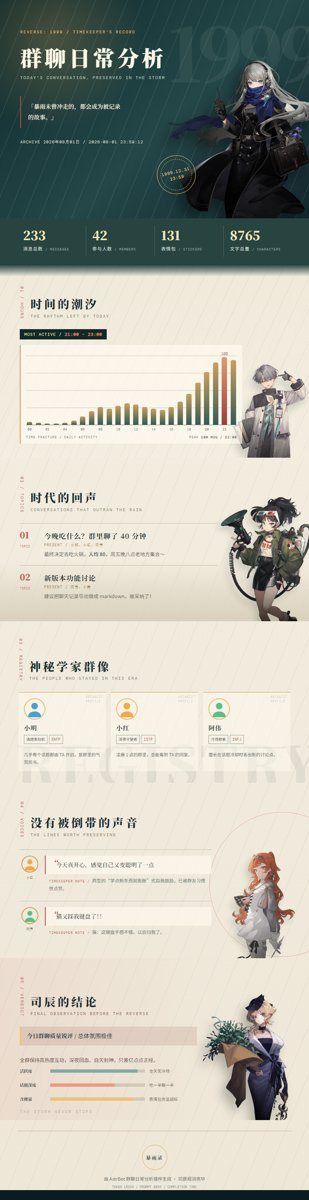
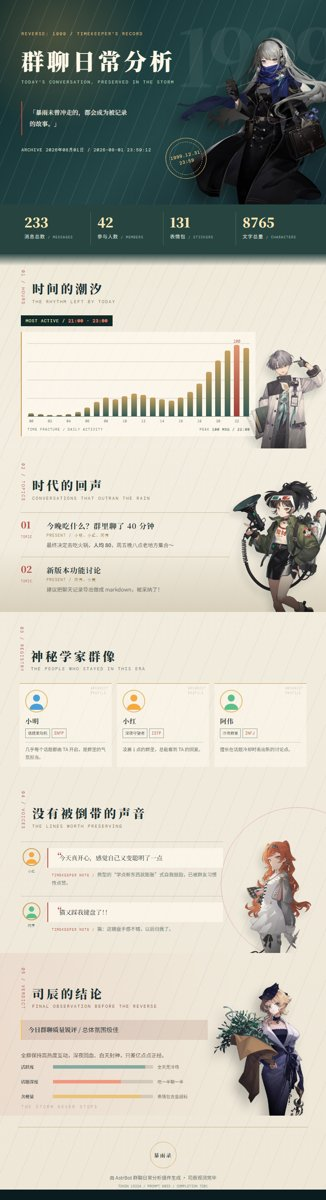
Compact continuous report sections

diff --git a/gda_reverse_1999/image_template.html b/gda_reverse_1999/image_template.html
@@ -1,4 +1,4 @@
 <!DOCTYPE html>
 <html lang="{{ 'zh-CN' if t2i_font_source == 'Mainland' else 'zh-Hant' }}"><head><meta charset="UTF-8"><meta name="viewport" content="width=device-width,initial-scale=1"><title>重返未来：1999 · 群聊观测</title><link rel="preconnect" href="{{ t2i_google_fonts_mirror }}"><link href="{{ t2i_google_fonts_mirror }}/css2?family=Noto+Serif+SC:wght@500;700;900&family=Noto+Serif+TC:wght@500;700;900&family=Noto+Sans+SC:wght@400;500;700&family=Noto+Sans+TC:wght@400;500;700&family=DM+Mono&display=swap" rel="stylesheet"><style>
-:root{--night:#102928;--deep:#0b1c20;--mist:#dce2d7;--paper:#f4efe2;--ivory:#fffaf0;--gold:#c99c55;--red:#bd4d45;--blue:#8ca9a3;--ink:#183031;--font-title:{% if t2i_font_source == 'Mainland' %}'Noto Serif SC','Noto Serif TC'{% else %}'Noto Serif TC','Noto Serif SC'{% endif %},serif;--font-body:{% if t2i_font_source == 'Mainland' %}'Noto Sans SC','Noto Sans TC'{% else %}'Noto Sans TC','Noto Sans SC'{% endif %},sans-serif;--mono:'DM Mono',monospace}*{box-sizing:border-box;margin:0;padding:0}html{background:var(--deep)}body{font-family:var(--font-body);color:var(--ink);font-size:15px;line-height:1.8;-webkit-print-color-adjust:exact;print-color-adjust:exact}.page{width:750px;margin:auto;overflow:hidden;background:#f4efe2;background-image:repeating-linear-gradient(112deg,transparent 0 42px,rgba(35,62,58,.055) 43px 44px),linear-gradient(180deg,#f5f0e4,#eee7d8)}.avoid-break{break-inside:avoid;page-break-inside:avoid}.hero{height:530px;position:relative;overflow:hidden;color:#fff8e8;background:linear-gradient(135deg,#102a2b 0%,#244748 55%,#13272d 100%)}.hero:before{content:"";position:absolute;inset:0;background:repeating-linear-gradient(112deg,transparent 0 34px,rgba(218,236,223,.11) 35px 36px),radial-gradient(circle at 17% 18%,rgba(201,156,85,.28),transparent 29%)}.hero:after{content:"1999";position:absolute;right:-24px;top:32px;font:900 180px/1 var(--font-title);letter-spacing:-12px;color:rgba(255,249,230,.06)}.hero-copy{position:absolute;z-index:3;left:49px;top:70px;width:398px}.eyebrow,.en,.chapter-index,.footer-code{font:10px/1.5 var(--mono);letter-spacing:2px}.eyebrow{color:#e2bf82}.hero h1{margin-top:21px;font:900 52px/1.25 var(--font-title);letter-spacing:7px}.hero .en{margin-top:10px;color:#bbcfbf}.hero-quote{margin-top:37px;width:255px;padding:13px 0 13px 17px;border-left:2px solid var(--red);font-family:var(--font-title);font-size:14px;line-height:1.85}.hero-date{margin-top:27px;color:#d6dccc;font:10px var(--mono);letter-spacing:1px}.hero-char{position:absolute;z-index:2;right:-34px;bottom:-26px;width:380px;filter:drop-shadow(-16px 17px 14px rgba(0,0,0,.37))}.hero-seal{position:absolute;z-index:4;right:275px;bottom:59px;width:94px;height:94px;border:1px solid #dfbd78;border-radius:50%;display:flex;align-items:center;justify-content:center;text-align:center;color:#efc980;font:10px/1.55 var(--mono);letter-spacing:1px;transform:rotate(-13deg)}.hero-seal:after{content:"";position:absolute;inset:8px;border:1px dashed #dfbd78;border-radius:50%}.metrics{display:grid;grid-template-columns:repeat(4,1fr);background:rgba(26,57,54,.94);color:#fff8e8;padding:17px 41px 20px;gap:0;position:relative}.metrics:after{content:"";position:absolute;left:0;right:0;bottom:-28px;height:29px;background:linear-gradient(180deg,rgba(26,57,54,.94),transparent);pointer-events:none;z-index:1}.metric{padding:5px 15px 8px;border-left:1px solid rgba(224,200,145,.27)}.metric:first-child{border:0}.metric b{display:block;font:900 30px/1.2 var(--font-title);color:#f8e5b5}.metric small{font-size:11px;color:#d3dfd2;letter-spacing:1px}.metric span{font:8px var(--mono);color:#9eb4aa;letter-spacing:1px}.scene{position:relative;overflow:hidden}.scene-title{display:flex;align-items:flex-end;gap:16px;position:relative;z-index:3}.chapter-index{color:var(--red);writing-mode:vertical-rl;line-height:1}.scene-title h2{font:900 28px/1.2 var(--font-title);letter-spacing:5px}.scene-title .en{margin-top:5px;color:#8b7761}.tide{padding:52px 48px 34px;background:linear-gradient(180deg,rgba(238,232,216,.78),rgba(244,239,226,.34))}.tide .chart-wrap{margin-bottom:0}.tide:before{content:"";position:absolute;inset:0;background:repeating-linear-gradient(115deg,transparent 0 31px,rgba(40,74,70,.06) 32px 33px)}.tide-char{position:absolute;right:-25px;bottom:-46px;width:250px;opacity:.88;filter:drop-shadow(-8px 13px 9px rgba(25,43,40,.2))}.tide .scene-title{width:420px}.peak-box{position:relative;z-index:3;display:inline-block;margin:24px 0 13px;padding:6px 11px;background:var(--night);color:#f2e0b7;font:10px var(--mono);letter-spacing:1px}.peak-box b{color:#f18770}.chart-wrap{position:relative;z-index:3;width:540px;padding:14px 13px 11px;background:rgba(255,250,239,.7);border-left:2px solid var(--gold)}.chart-col{padding-top:20px;background:repeating-linear-gradient(0deg,transparent 0 40px,rgba(31,55,51,.15) 41px 42px)}.chart-bars{height:160px;display:flex;gap:4px;align-items:flex-end}.chart-item{height:100%;flex:1;display:flex;align-items:flex-end;justify-content:center;position:relative}.chart-bar{width:75%;min-height:3px;background:linear-gradient(to top,#335b57,#c7a15e);border-radius:4px 4px 0 0}.chart-bar.peak{background:linear-gradient(to top,#9e3e39,#e19a73)}.chart-val{position:absolute;bottom:calc(100% + 6px);font:9px var(--mono);color:var(--red)}.chart-hr{border:0;border-top:1px solid #778780}.chart-labels{display:flex;gap:4px;padding-top:5px}.chart-labels span{flex:1;text-align:center;font:8px var(--mono);color:#708079}.chart-caption{display:flex;justify-content:space-between;margin-top:9px;font:8px var(--mono);letter-spacing:1px;color:#697870}.topic-scene{padding:46px 48px 34px;background:transparent}.topic-scene .topic-list{margin-bottom:0}.topic-char{right:2px;bottom:18px;width:252px;opacity:.94}.topic-scene:before{content:"";position:absolute;left:0;right:0;bottom:0;height:145px;background:linear-gradient(0deg,#d8d0bc,transparent)}.topic-scene .scene-title{margin-bottom:25px}.topic-list{position:relative;z-index:2;width:480px}.topic-item{display:flex;gap:17px;padding:17px 0;border-top:1px solid #c9b99c}.topic-no{width:42px;flex:none;color:var(--red)}.topic-no b{display:block;font:900 21px/1 var(--font-title)}.topic-no span{font:7px var(--mono);letter-spacing:1px}.topic-title{font:700 17px/1.5 var(--font-title);letter-spacing:1px}.topic-meta{margin-top:3px;color:#a47d42;font:9px var(--mono);letter-spacing:1px}.topic-detail{margin-top:5px;color:#5f6861;font-size:12px}.topic-char{position:absolute;right:-58px;bottom:-33px;width:300px;z-index:1;filter:drop-shadow(-9px 11px 8px rgba(25,43,40,.17))}.registry{padding:42px 45px 28px;background:transparent;color:var(--ink)}.registry:before{content:"REGISTRY";position:absolute;left:37px;bottom:-44px;color:rgba(21,57,53,.025);font:900 130px var(--font-title);letter-spacing:6px}.registry .en{color:#bfae87}.title-grid{display:grid;grid-template-columns:repeat(3,1fr);gap:12px;position:relative;z-index:2;margin-top:26px}.title-card{position:relative;padding:14px 13px 13px;background:rgba(255,250,240,.48);border-top:1px solid #d4b272;overflow:hidden}.title-card:after{content:"ARCANIST\A PROFILE";white-space:pre;position:absolute;right:7px;top:6px;color:rgba(255,248,230,.35);font:7px/1.5 var(--mono);letter-spacing:1px}.t-avatar{width:52px;height:52px;border-radius:50%;overflow:hidden;border:2px solid #e2bd75}.t-avatar img{width:100%;height:100%;object-fit:cover}.t-name{margin-top:9px;font:700 15px var(--font-title);letter-spacing:1px}.t-badges{display:flex;gap:4px;flex-wrap:wrap;margin-top:7px}.t-title-tag,.t-mbti{padding:2px 5px;border:1px solid rgba(239,218,175,.54);font-size:9px}.t-mbti{font-family:var(--mono);color:#f3bdad}.t-reason{margin-top:9px;padding-top:7px;border-top:1px solid rgba(239,218,175,.23);font-size:10.5px;line-height:1.7;color:#d7ded0}.t-profile{position:absolute;right:-6px;bottom:-4px;width:58%;opacity:.08}.quote-stage{padding:46px 48px 34px;background:transparent}.quote-stage .quote-wrapper:last-child{margin-bottom:0}.quote-char{right:8px;bottom:18px;width:245px;opacity:.84}.quote-stage:after{content:"";position:absolute;right:-110px;top:71px;width:350px;height:350px;border:1px solid rgba(190,73,66,.35);border-radius:50%}.quote-stage .scene-title{margin-bottom:28px}.quote-wrapper{position:relative;z-index:2;width:465px;padding:14px 0;border-top:1px solid #bec6b9}.q-flex{display:flex;gap:13px}.q-side{flex:none;width:48px;text-align:center}.q-avatar{width:41px;height:41px;object-fit:cover;border-radius:50%;border:2px solid var(--gold)}.q-sender{font:8px var(--mono);color:#61716a;word-break:break-all}.q-main{flex:1}.q-bubble{padding:10px 13px 10px 25px;background:rgba(255,251,240,.65);border-left:2px solid var(--red);font:14px/1.75 var(--font-title);position:relative}.q-bubble:before{content:'“';position:absolute;left:9px;top:3px;font:23px var(--font-title);color:var(--red)}.q-note{padding:6px 10px;color:#68766f;font-size:11px}.note-label{font:8px var(--mono);color:var(--red);letter-spacing:1px}.quote-char{position:absolute;right:-20px;bottom:-47px;width:285px;z-index:1;filter:drop-shadow(-9px 13px 8px rgba(30,50,47,.19))}.assessment{padding:46px 48px 34px;background:linear-gradient(90deg,rgba(189,77,69,.08),transparent 72%);color:var(--ink)}.assessment:before{content:"THE STORM NEVER STOPS";position:absolute;left:49px;bottom:14px;font:9px var(--mono);letter-spacing:3px;color:rgba(255,239,207,.43)}.assessment .en{color:#ebc98b}.block-char{position:absolute;right:-17px;bottom:-27px;width:294px;filter:drop-shadow(-13px 15px 12px rgba(0,0,0,.25))}.quality-summary{position:relative;z-index:2;width:430px;margin-top:24px;font-size:12px;color:#ffeeda}.quality-summary.head{padding:10px 14px;border-left:3px solid #f2c470;background:rgba(30,20,22,.2);font-size:14px}.quality-summary b{font-family:var(--font-title)}.dim-row{position:relative;z-index:2;display:flex;align-items:center;gap:10px;width:418px;padding:8px 0;font-size:10px}.dim-name{width:64px;font-family:var(--font-title);font-weight:700}.dim-bar-box{flex:1;height:8px;background:rgba(255,245,220,.25)}.dim-bar{height:100%;background:#e9c378}.dim-bar.d2{background:#83aaa0}.dim-bar.d3{background:#f0987f}.dim-comment{width:104px;color:#f4d9c5}.footer{position:relative;height:170px;padding-top:60px;text-align:center;background:transparent;color:var(--ink)}.footer:before{content:"";position:absolute;left:42px;right:42px;top:26px;border-top:1px solid rgba(225,190,123,.39)}.seal{display:inline-flex;width:61px;height:61px;align-items:center;justify-content:center;border:1px solid #d4ab67;border-radius:50%;font:700 12px/1.35 var(--font-title);letter-spacing:2px;position:relative;z-index:1}.seal span{display:none}.footer-line{margin-top:12px;font-size:11px;color:#c3d1c2}.token-line{margin-top:4px;font:8px var(--mono);color:#89a39a}.footer-art,.footer-art2,.footer-orn,.deco-char,.blk-sticker,.sec-head,.sec-no,.sec-title,.sec-sub,.kpi-row,.kpi-card,.kpi-num,.kpi-unit,.kpi-label,.kpi-en{display:none}
+:root{--night:#102928;--deep:#0b1c20;--mist:#dce2d7;--paper:#f4efe2;--ivory:#fffaf0;--gold:#c99c55;--red:#bd4d45;--blue:#8ca9a3;--ink:#183031;--font-title:{% if t2i_font_source == 'Mainland' %}'Noto Serif SC','Noto Serif TC'{% else %}'Noto Serif TC','Noto Serif SC'{% endif %},serif;--font-body:{% if t2i_font_source == 'Mainland' %}'Noto Sans SC','Noto Sans TC'{% else %}'Noto Sans TC','Noto Sans SC'{% endif %},sans-serif;--mono:'DM Mono',monospace}*{box-sizing:border-box;margin:0;padding:0}html{background:var(--deep)}body{font-family:var(--font-body);color:var(--ink);font-size:15px;line-height:1.8;-webkit-print-color-adjust:exact;print-color-adjust:exact}.page{width:750px;margin:auto;overflow:hidden;background:#f4efe2;background-image:repeating-linear-gradient(112deg,transparent 0 42px,rgba(35,62,58,.055) 43px 44px),linear-gradient(180deg,#f5f0e4,#eee7d8)}.avoid-break{break-inside:avoid;page-break-inside:avoid}.hero{height:470px;position:relative;overflow:hidden;color:#fff8e8;background:linear-gradient(135deg,#102a2b 0%,#244748 55%,#13272d 100%)}.hero:before{content:"";position:absolute;inset:0;background:repeating-linear-gradient(112deg,transparent 0 34px,rgba(218,236,223,.11) 35px 36px),radial-gradient(circle at 17% 18%,rgba(201,156,85,.28),transparent 29%)}.hero:after{content:"1999";position:absolute;right:-24px;top:32px;font:900 180px/1 var(--font-title);letter-spacing:-12px;color:rgba(255,249,230,.06)}.hero-copy{position:absolute;z-index:3;left:49px;top:70px;width:398px}.eyebrow,.en,.chapter-index,.footer-code{font:10px/1.5 var(--mono);letter-spacing:2px}.eyebrow{color:#e2bf82}.hero h1{margin-top:21px;font:900 52px/1.25 var(--font-title);letter-spacing:7px}.hero .en{margin-top:10px;color:#bbcfbf}.hero-quote{margin-top:37px;width:255px;padding:13px 0 13px 17px;border-left:2px solid var(--red);font-family:var(--font-title);font-size:14px;line-height:1.85}.hero-date{margin-top:27px;color:#d6dccc;font:10px var(--mono);letter-spacing:1px}.hero-char{position:absolute;z-index:2;right:-34px;bottom:-26px;width:380px;filter:drop-shadow(-16px 17px 14px rgba(0,0,0,.37))}.hero-seal{position:absolute;z-index:4;right:275px;bottom:59px;width:94px;height:94px;border:1px solid #dfbd78;border-radius:50%;display:flex;align-items:center;justify-content:center;text-align:center;color:#efc980;font:10px/1.55 var(--mono);letter-spacing:1px;transform:rotate(-13deg)}.hero-seal:after{content:"";position:absolute;inset:8px;border:1px dashed #dfbd78;border-radius:50%}.metrics{display:grid;grid-template-columns:repeat(4,1fr);background:rgba(26,57,54,.94);color:#fff8e8;padding:17px 41px 20px;gap:0;position:relative}.metrics:after{content:"";position:absolute;left:0;right:0;bottom:-28px;height:29px;background:linear-gradient(180deg,rgba(26,57,54,.94),transparent);pointer-events:none;z-index:1}.metric{padding:5px 15px 8px;border-left:1px solid rgba(224,200,145,.27)}.metric:first-child{border:0}.metric b{display:block;font:900 30px/1.2 var(--font-title);color:#f8e5b5}.metric small{font-size:11px;color:#d3dfd2;letter-spacing:1px}.metric span{font:8px var(--mono);color:#9eb4aa;letter-spacing:1px}.scene{position:relative;overflow:hidden}.scene-title{display:flex;align-items:flex-end;gap:16px;position:relative;z-index:3}.chapter-index{color:var(--red);writing-mode:vertical-rl;line-height:1}.scene-title h2{font:900 28px/1.2 var(--font-title);letter-spacing:5px}.scene-title .en{margin-top:5px;color:#8b7761}.tide{padding:38px 48px 28px;background:linear-gradient(180deg,rgba(238,232,216,.78),rgba(244,239,226,.34))}.tide .chart-wrap{margin-bottom:0}.tide:before{content:"";position:absolute;inset:0;background:repeating-linear-gradient(115deg,transparent 0 31px,rgba(40,74,70,.06) 32px 33px)}.tide-char{position:absolute;right:-25px;bottom:-46px;width:250px;opacity:.88;filter:drop-shadow(-8px 13px 9px rgba(25,43,40,.2))}.tide .scene-title{width:420px}.peak-box{position:relative;z-index:3;display:inline-block;margin:24px 0 13px;padding:6px 11px;background:var(--night);color:#f2e0b7;font:10px var(--mono);letter-spacing:1px}.peak-box b{color:#f18770}.chart-wrap{position:relative;z-index:3;width:540px;padding:14px 13px 11px;background:rgba(255,250,239,.7);border-left:2px solid var(--gold)}.chart-col{padding-top:20px;background:repeating-linear-gradient(0deg,transparent 0 40px,rgba(31,55,51,.15) 41px 42px)}.chart-bars{height:160px;display:flex;gap:4px;align-items:flex-end}.chart-item{height:100%;flex:1;display:flex;align-items:flex-end;justify-content:center;position:relative}.chart-bar{width:75%;min-height:3px;background:linear-gradient(to top,#335b57,#c7a15e);border-radius:4px 4px 0 0}.chart-bar.peak{background:linear-gradient(to top,#9e3e39,#e19a73)}.chart-val{position:absolute;bottom:calc(100% + 6px);font:9px var(--mono);color:var(--red)}.chart-hr{border:0;border-top:1px solid #778780}.chart-labels{display:flex;gap:4px;padding-top:5px}.chart-labels span{flex:1;text-align:center;font:8px var(--mono);color:#708079}.chart-caption{display:flex;justify-content:space-between;margin-top:9px;font:8px var(--mono);letter-spacing:1px;color:#697870}.topic-scene{padding:34px 48px 25px;background:transparent}.topic-scene .topic-list{margin-bottom:0}.topic-char{right:2px;bottom:18px;width:252px;opacity:.94}.topic-scene:before{content:"";position:absolute;left:0;right:0;bottom:0;height:145px;background:linear-gradient(0deg,#d8d0bc,transparent)}.topic-scene .scene-title{margin-bottom:25px}.topic-list{position:relative;z-index:2;width:480px}.topic-item{display:flex;gap:17px;padding:17px 0;border-top:1px solid #c9b99c}.topic-no{width:42px;flex:none;color:var(--red)}.topic-no b{display:block;font:900 21px/1 var(--font-title)}.topic-no span{font:7px var(--mono);letter-spacing:1px}.topic-title{font:700 17px/1.5 var(--font-title);letter-spacing:1px}.topic-meta{margin-top:3px;color:#a47d42;font:9px var(--mono);letter-spacing:1px}.topic-detail{margin-top:5px;color:#5f6861;font-size:12px}.topic-char{position:absolute;right:-58px;bottom:-33px;width:300px;z-index:1;filter:drop-shadow(-9px 11px 8px rgba(25,43,40,.17))}.registry{padding:34px 45px 22px;background:transparent;color:var(--ink)}.registry:before{display:none}.registry .en{color:#bfae87}.title-grid{display:grid;grid-template-columns:repeat(3,1fr);gap:12px;position:relative;z-index:2;margin-top:26px}.title-card{position:relative;padding:14px 13px 13px;background:rgba(255,250,240,.48);border-top:1px solid #d4b272;overflow:hidden}.title-card:after{content:"ARCANIST\A PROFILE";white-space:pre;position:absolute;right:7px;top:6px;color:rgba(255,248,230,.35);font:7px/1.5 var(--mono);letter-spacing:1px}.t-avatar{width:52px;height:52px;border-radius:50%;overflow:hidden;border:2px solid #e2bd75}.t-avatar img{width:100%;height:100%;object-fit:cover}.t-name{margin-top:9px;font:700 15px var(--font-title);letter-spacing:1px}.t-badges{display:flex;gap:4px;flex-wrap:wrap;margin-top:7px}.t-title-tag,.t-mbti{padding:2px 5px;border:1px solid rgba(239,218,175,.54);font-size:9px}.t-mbti{font-family:var(--mono);color:#f3bdad}.t-reason{margin-top:9px;padding-top:7px;border-top:1px solid rgba(239,218,175,.23);font-size:10.5px;line-height:1.7;color:#d7ded0}.t-profile{position:absolute;right:-6px;bottom:-4px;width:58%;opacity:.08}.quote-stage{padding:34px 48px 26px;background:transparent}.quote-stage .quote-wrapper:last-child{margin-bottom:0}.quote-char{right:8px;bottom:18px;width:245px;opacity:.84}.quote-stage:after{content:"";position:absolute;right:-110px;top:71px;width:350px;height:350px;border:1px solid rgba(190,73,66,.35);border-radius:50%}.quote-stage .scene-title{margin-bottom:28px}.quote-wrapper{position:relative;z-index:2;width:465px;padding:14px 0;border-top:1px solid #bec6b9}.q-flex{display:flex;gap:13px}.q-side{flex:none;width:48px;text-align:center}.q-avatar{width:41px;height:41px;object-fit:cover;border-radius:50%;border:2px solid var(--gold)}.q-sender{font:8px var(--mono);color:#61716a;word-break:break-all}.q-main{flex:1}.q-bubble{padding:10px 13px 10px 25px;background:rgba(255,251,240,.65);border-left:2px solid var(--red);font:14px/1.75 var(--font-title);position:relative}.q-bubble:before{content:'“';position:absolute;left:9px;top:3px;font:23px var(--font-title);color:var(--red)}.q-note{padding:6px 10px;color:#68766f;font-size:11px}.note-label{font:8px var(--mono);color:var(--red);letter-spacing:1px}.quote-char{position:absolute;right:-20px;bottom:-47px;width:285px;z-index:1;filter:drop-shadow(-9px 13px 8px rgba(30,50,47,.19))}.assessment{padding:34px 48px 27px;background:linear-gradient(90deg,rgba(189,77,69,.08),transparent 72%);color:var(--ink)}.assessment:before{content:"THE STORM NEVER STOPS";position:absolute;left:49px;bottom:14px;font:9px var(--mono);letter-spacing:3px;color:rgba(255,239,207,.43)}.assessment .en{color:#ebc98b}.block-char{position:absolute;right:-17px;bottom:-27px;width:294px;filter:drop-shadow(-13px 15px 12px rgba(0,0,0,.25))}.quality-summary{position:relative;z-index:2;width:430px;margin-top:24px;font-size:12px;color:#ffeeda}.quality-summary.head{padding:10px 14px;border-left:3px solid #f2c470;background:rgba(30,20,22,.2);font-size:14px}.quality-summary b{font-family:var(--font-title)}.dim-row{position:relative;z-index:2;display:flex;align-items:center;gap:10px;width:418px;padding:8px 0;font-size:10px}.dim-name{width:64px;font-family:var(--font-title);font-weight:700}.dim-bar-box{flex:1;height:8px;background:rgba(255,245,220,.25)}.dim-bar{height:100%;background:#e9c378}.dim-bar.d2{background:#83aaa0}.dim-bar.d3{background:#f0987f}.dim-comment{width:104px;color:#f4d9c5}.footer{position:relative;height:170px;padding-top:60px;text-align:center;background:transparent;color:var(--ink)}.footer:before{content:"";position:absolute;left:42px;right:42px;top:26px;border-top:1px solid rgba(225,190,123,.39)}.seal{display:inline-flex;width:61px;height:61px;align-items:center;justify-content:center;border:1px solid #d4ab67;border-radius:50%;font:700 12px/1.35 var(--font-title);letter-spacing:2px;position:relative;z-index:1}.seal span{display:none}.footer-line{margin-top:12px;font-size:11px;color:#c3d1c2}.token-line{margin-top:4px;font:8px var(--mono);color:#89a39a}.footer-art,.footer-art2,.footer-orn,.deco-char,.blk-sticker,.sec-head,.sec-no,.sec-title,.sec-sub,.kpi-row,.kpi-card,.kpi-num,.kpi-unit,.kpi-label,.kpi-en{display:none}
 .registry:before{color:rgba(21,57,53,.075)}.registry .en{color:#71817a}.registry .chapter-index{color:var(--red)}.registry .title-card{background:rgba(255,250,240,.48);border-top-color:var(--gold)}.registry .title-card:after{color:rgba(28,65,61,.28)}.registry .t-name{color:var(--ink)}.registry .t-title-tag,.registry .t-mbti{border-color:rgba(44,75,69,.5);color:var(--ink)}.registry .t-mbti{color:var(--red)}.registry .t-reason{border-top-color:rgba(44,75,69,.22);color:#5b6e67}.assessment:before{color:rgba(133,59,52,.45)}.assessment .en{color:#8e554c}.assessment .quality-summary{color:#5d4a45}.assessment .quality-summary.head{background:rgba(116,49,43,.12);color:var(--ink)}.assessment .dim-comment{color:#745d56}.assessment .dim-bar-box{background:rgba(93,74,67,.18)}.footer:before{border-color:rgba(153,113,65,.5)}.footer-line{color:#566d66}.token-line{color:#82928c}</style></head><body><div class="page"><section class="hero"><div class="hero-copy"><div class="eyebrow">REVERSE: 1999 / TIMEKEEPER'S RECORD</div><h1>群聊日常分析</h1><div class="en">TODAY'S CONVERSATION, PRESERVED IN THE STORM</div><div class="hero-quote">「暴雨未曾冲走的，都会成为被记录的故事。」</div><div class="hero-date">ARCHIVE {{ current_date }} / {{ current_datetime }}</div></div><div class="hero-seal">1999.12.31<br>23:59</div><img class="hero-char" src="https://re.bluepoch.com/home/img/role/2.png" alt="维尔汀"></section><section class="metrics"><div class="metric"><b>{{ message_count }}</b><small>消息总数</small><span> / MESSAGES</span></div><div class="metric"><b>{{ participant_count }}</b><small>参与人数</small><span> / MEMBERS</span></div><div class="metric"><b>{{ emoji_count }}</b><small>表情包</small><span> / STICKERS</span></div><div class="metric"><b>{{ total_characters }}</b><small>文字总量</small><span> / CHARACTERS</span></div></section><section class="scene tide"><img class="tide-char" src="https://re.bluepoch.com/home/img/role/1.png" alt="角色"><div class="scene-title"><div class="chapter-index">01 / HOURS</div><div><h2>时间的潮汐</h2><div class="en">THE RHYTHM LEFT BY TODAY</div></div></div><div class="peak-box">MOST ACTIVE / <b>{{ most_active_period }}</b></div>{{ hourly_chart_html | safe }}</section><section class="scene topic-scene"><img class="topic-char" src="https://re.bluepoch.com/home/img/role/4.png" alt="角色">{{ topics_html | safe }}</section><section class="scene registry">{{ titles_html | safe }}</section><section class="scene quote-stage"><img class="quote-char" src="https://re.bluepoch.com/home/img/role/5.png" alt="角色">{{ quotes_html | safe }}</section>{% if chat_quality_html %}<section class="scene assessment">{{ chat_quality_html | safe }}</section>{% endif %}<footer class="footer"><div class="seal">暴雨录<span>STORM</span></div><div class="footer-line">由 AstrBot 群聊日常分析插件生成 · 司辰观测完毕</div><div class="token-line">TOKEN {{ total_tokens }} / PROMPT {{ prompt_tokens }} / COMPLETION {{ completion_tokens }}</div></footer></div></body></html>
